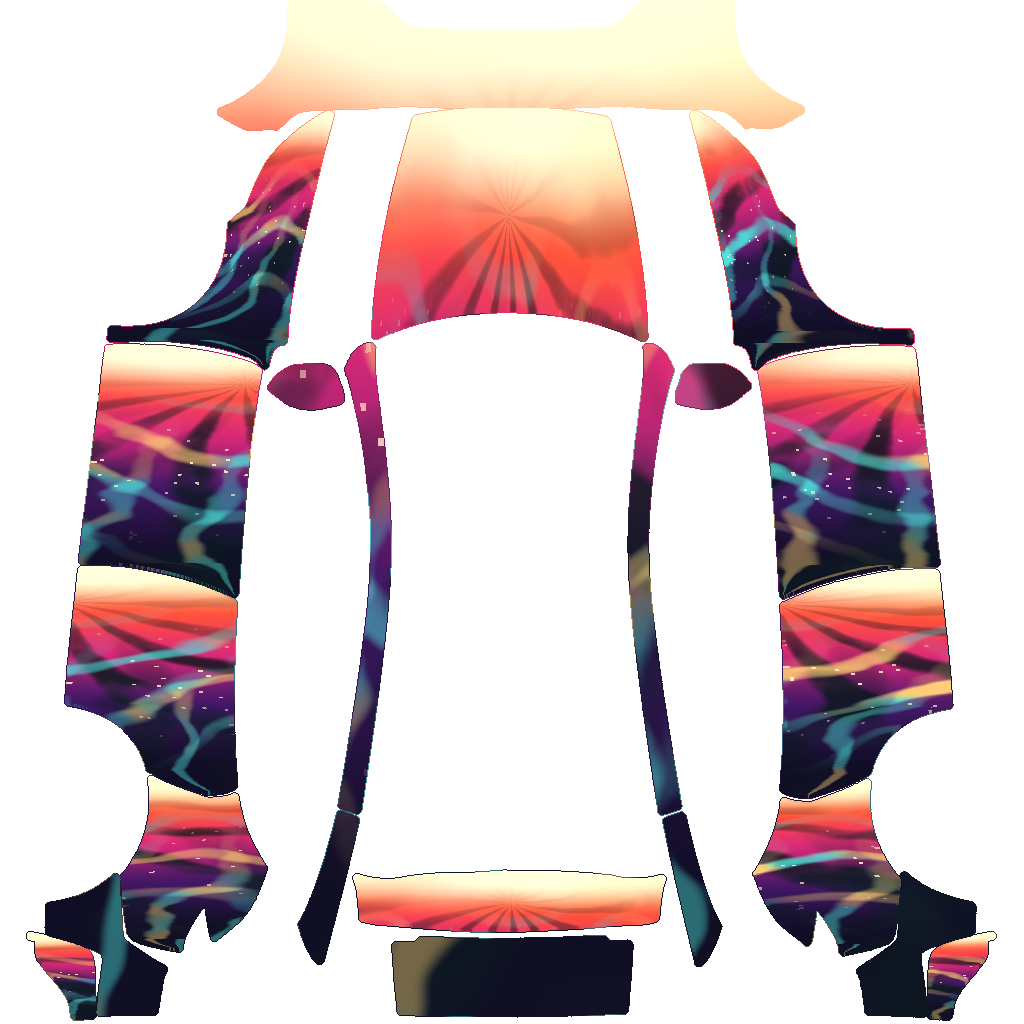
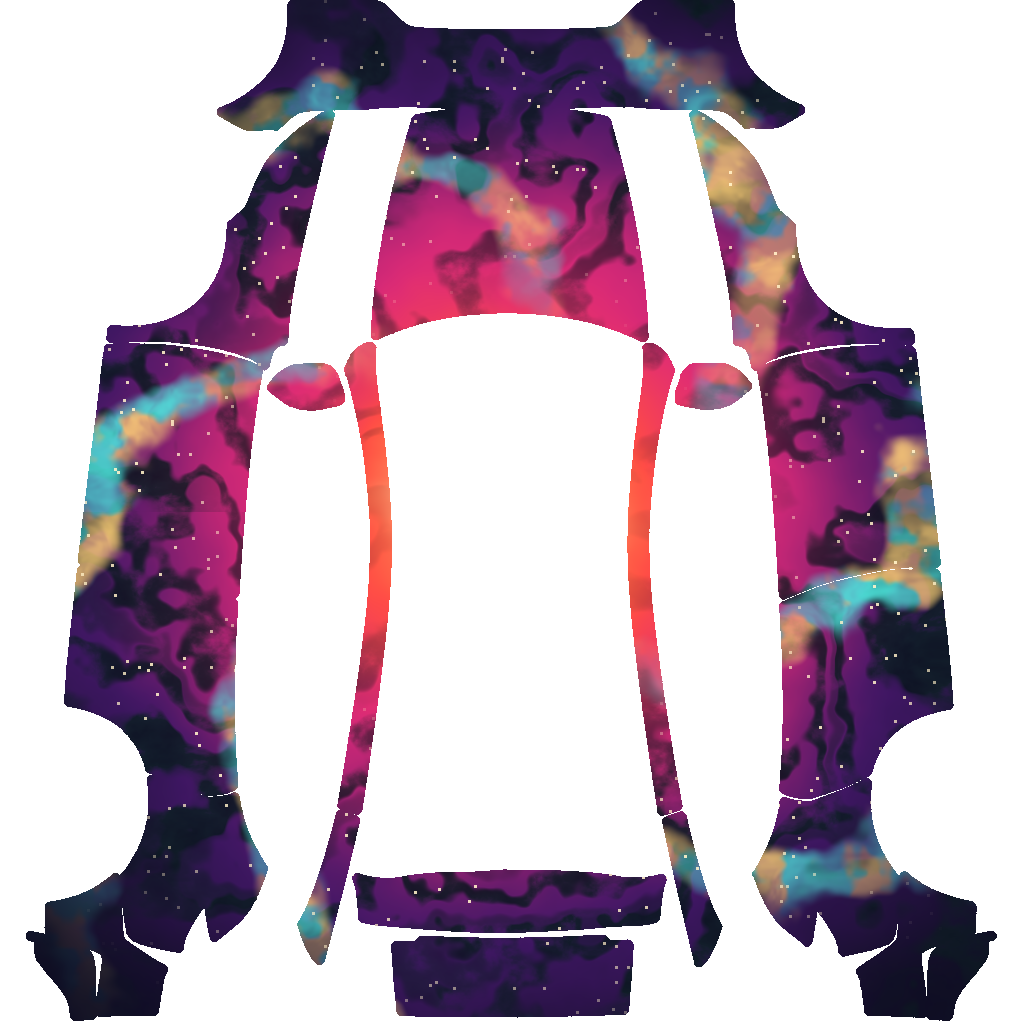
Restore original la-dusk look

diff --git a/skins/2026-09-04/README.md b/skins/2026-09-04/README.md
@@ -1,7 +1,7 @@
 # Skins — 2026-09-04
 
 **Slug:** `la-dusk`
-**Brief:** Los Angeles dusk: coral-magenta sunburst bleeding into indigo night toward the rockers, with continuous freeway ribbons and palm silhouettes that cross door seams (continuous side UV rebuild).
+**Brief:** Los Angeles dusk impression: coral-magenta sun disk on the roof bleeding into indigo night toward the rockers, with soft palm-frond silhouettes and thin freeway light ribbons drifting downhill — regenerated, no logos.
 
 CITY series — Los Angeles (next after NYC). One invented wrap applied to every official Tesla custom-wrap vehicle.
 
@@ -9,17 +9,16 @@ CITY series — Los Angeles (next after NYC). One invented wrap applied to every
 
 | Folder | Pixels | File size |
 |---|---|---|
-| `cybertruck` | 1024×768 | 318.6 KB |
-| `model3` | 1024×1024 | 436.9 KB |
-| `model3-2024-base` | 1024×1024 | 461.1 KB |
-| `model3-2024-performance` | 1024×1024 | 463.2 KB |
-| `modely` | 1024×1024 | 437.1 KB |
-| `modely-2025-base` | 1024×1024 | 329.8 KB |
-| `modely-2025-premium` | 1024×1024 | 363.6 KB |
-| `modely-2025-performance` | 1024×1024 | 368.4 KB |
-| `modely-l` | 1024×1024 | 406.5 KB |
-| `models-2021` | 1024×1024 | 375.4 KB |
-| `models-2025-plaid` | 1024×1024 | 371.0 KB |
-| `modelx-2021` | 1024×1024 | 301.4 KB |
-
+| `cybertruck` | 1024×768 | 499.0 KB |
+| `model3-2024-base` | 1024×1024 | 518.5 KB |
+| `model3-2024-performance` | 1024×1024 | 515.9 KB |
+| `model3` | 1024×1024 | 472.5 KB |
+| `models-2021` | 1024×1024 | 436.1 KB |
+| `models-2025-plaid` | 1024×1024 | 420.8 KB |
+| `modelx-2021` | 1024×1024 | 336.7 KB |
+| `modely-2025-base` | 1024×1024 | 378.8 KB |
+| `modely-2025-performance` | 1024×1024 | 439.5 KB |
+| `modely-2025-premium` | 1024×1024 | 426.4 KB |
+| `modely-l` | 1024×1024 | 482.5 KB |
+| `modely` | 1024×1024 | 526.4 KB |
 

diff --git a/skins/2026-09-04/cybertruck/README.md b/skins/2026-09-04/cybertruck/README.md
@@ -1,10 +1,10 @@
 # Cybertruck — la-dusk
 
 - **Slug:** `la-dusk`
-- **Brief:** Los Angeles dusk: coral-magenta sunburst bleeding into indigo night toward the rockers, with continuous freeway ribbons and palm silhouettes that cross door seams (continuous side UV rebuild).
+- **Brief:** Los Angeles dusk impression: coral-magenta sun disk on the roof bleeding into indigo night toward the rockers, with soft palm-frond silhouettes and thin freeway light ribbons drifting downhill — regenerated, no logos.
 - **Official folder:** `cybertruck`
 - **Pixel size:** 1024×768
-- **File size:** 318.6 KB
+- **File size:** 499.0 KB
 - **File:** `la-dusk.png`
 
 **Size note:** official template is 1024×768 (non-square). Both edges are within 512–1024; export matches the official pixels.

diff --git a/skins/2026-09-04/model3-2024-base/README.md b/skins/2026-09-04/model3-2024-base/README.md
@@ -1,10 +1,10 @@
 # Model 3 (2024+) Standard & Premium — la-dusk
 
 - **Slug:** `la-dusk`
-- **Brief:** Los Angeles dusk: coral-magenta sunburst bleeding into indigo night toward the rockers, with continuous freeway ribbons and palm silhouettes that cross door seams (continuous side UV rebuild).
+- **Brief:** Los Angeles dusk impression: coral-magenta sun disk on the roof bleeding into indigo night toward the rockers, with soft palm-frond silhouettes and thin freeway light ribbons drifting downhill — regenerated, no logos.
 - **Official folder:** `model3-2024-base`
 - **Pixel size:** 1024×1024
-- **File size:** 461.1 KB
+- **File size:** 518.5 KB
 - **File:** `la-dusk.png`
 
 ## Tesla upload steps

diff --git a/skins/2026-09-04/model3-2024-performance/README.md b/skins/2026-09-04/model3-2024-performance/README.md
@@ -1,10 +1,10 @@
 # Model 3 (2024+) Performance — la-dusk
 
 - **Slug:** `la-dusk`
-- **Brief:** Los Angeles dusk: coral-magenta sunburst bleeding into indigo night toward the rockers, with continuous freeway ribbons and palm silhouettes that cross door seams (continuous side UV rebuild).
+- **Brief:** Los Angeles dusk impression: coral-magenta sun disk on the roof bleeding into indigo night toward the rockers, with soft palm-frond silhouettes and thin freeway light ribbons drifting downhill — regenerated, no logos.
 - **Official folder:** `model3-2024-performance`
 - **Pixel size:** 1024×1024
-- **File size:** 463.2 KB
+- **File size:** 515.9 KB
 - **File:** `la-dusk.png`
 
 ## Tesla upload steps

diff --git a/skins/2026-09-04/modely-2025-performance/README.md b/skins/2026-09-04/modely-2025-performance/README.md
@@ -1,10 +1,10 @@
 # Model Y (2025+) Performance — la-dusk
 
 - **Slug:** `la-dusk`
-- **Brief:** Los Angeles dusk: coral-magenta sunburst bleeding into indigo night toward the rockers, with continuous freeway ribbons and palm silhouettes that cross door seams (continuous side UV rebuild).
+- **Brief:** Los Angeles dusk impression: coral-magenta sun disk on the roof bleeding into indigo night toward the rockers, with soft palm-frond silhouettes and thin freeway light ribbons drifting downhill — regenerated, no logos.
 - **Official folder:** `modely-2025-performance`
 - **Pixel size:** 1024×1024
-- **File size:** 368.4 KB
+- **File size:** 439.5 KB
 - **File:** `la-dusk.png`
 
 ## Tesla upload steps

diff --git a/skins/2026-09-04/modely-2025-premium/README.md b/skins/2026-09-04/modely-2025-premium/README.md
@@ -1,10 +1,10 @@
 # Model Y (2025+) Premium — la-dusk
 
 - **Slug:** `la-dusk`
-- **Brief:** Los Angeles dusk: coral-magenta sunburst bleeding into indigo night toward the rockers, with continuous freeway ribbons and palm silhouettes that cross door seams (continuous side UV rebuild).
+- **Brief:** Los Angeles dusk impression: coral-magenta sun disk on the roof bleeding into indigo night toward the rockers, with soft palm-frond silhouettes and thin freeway light ribbons drifting downhill — regenerated, no logos.
 - **Official folder:** `modely-2025-premium`
 - **Pixel size:** 1024×1024
-- **File size:** 363.6 KB
+- **File size:** 426.4 KB
 - **File:** `la-dusk.png`
 
 ## Tesla upload steps

diff --git a/skins/2026-09-04/modely-2025-base/README.md b/skins/2026-09-04/modely-2025-base/README.md
@@ -1,10 +1,10 @@
 # Model Y (2025+) Standard — la-dusk
 
 - **Slug:** `la-dusk`
-- **Brief:** Los Angeles dusk: coral-magenta sunburst bleeding into indigo night toward the rockers, with continuous freeway ribbons and palm silhouettes that cross door seams (continuous side UV rebuild).
+- **Brief:** Los Angeles dusk impression: coral-magenta sun disk on the roof bleeding into indigo night toward the rockers, with soft palm-frond silhouettes and thin freeway light ribbons drifting downhill — regenerated, no logos.
 - **Official folder:** `modely-2025-base`
 - **Pixel size:** 1024×1024
-- **File size:** 329.8 KB
+- **File size:** 378.8 KB
 - **File:** `la-dusk.png`
 
 ## Tesla upload steps

diff --git a/skins/2026-09-04/models-2025-plaid/README.md b/skins/2026-09-04/models-2025-plaid/README.md
@@ -1,10 +1,10 @@
 # Model S (2025+) Plaid — la-dusk
 
 - **Slug:** `la-dusk`
-- **Brief:** Los Angeles dusk: coral-magenta sunburst bleeding into indigo night toward the rockers, with continuous freeway ribbons and palm silhouettes that cross door seams (continuous side UV rebuild).
+- **Brief:** Los Angeles dusk impression: coral-magenta sun disk on the roof bleeding into indigo night toward the rockers, with soft palm-frond silhouettes and thin freeway light ribbons drifting downhill — regenerated, no logos.
 - **Official folder:** `models-2025-plaid`
 - **Pixel size:** 1024×1024
-- **File size:** 371.0 KB
+- **File size:** 420.8 KB
 - **File:** `la-dusk.png`
 
 ## Tesla upload steps

diff --git a/skins/2026-09-04/models-2021/README.md b/skins/2026-09-04/models-2021/README.md
@@ -1,10 +1,10 @@
 # Model S (2021+) — la-dusk
 
 - **Slug:** `la-dusk`
-- **Brief:** Los Angeles dusk: coral-magenta sunburst bleeding into indigo night toward the rockers, with continuous freeway ribbons and palm silhouettes that cross door seams (continuous side UV rebuild).
+- **Brief:** Los Angeles dusk impression: coral-magenta sun disk on the roof bleeding into indigo night toward the rockers, with soft palm-frond silhouettes and thin freeway light ribbons drifting downhill — regenerated, no logos.
 - **Official folder:** `models-2021`
 - **Pixel size:** 1024×1024
-- **File size:** 375.4 KB
+- **File size:** 436.1 KB
 - **File:** `la-dusk.png`
 
 ## Tesla upload steps

diff --git a/skins/2026-09-04/modelx-2021/README.md b/skins/2026-09-04/modelx-2021/README.md
@@ -1,10 +1,10 @@
 # Model X (2021+) — la-dusk
 
 - **Slug:** `la-dusk`
-- **Brief:** Los Angeles dusk: coral-magenta sunburst bleeding into indigo night toward the rockers, with continuous freeway ribbons and palm silhouettes that cross door seams (continuous side UV rebuild).
+- **Brief:** Los Angeles dusk impression: coral-magenta sun disk on the roof bleeding into indigo night toward the rockers, with soft palm-frond silhouettes and thin freeway light ribbons drifting downhill — regenerated, no logos.
 - **Official folder:** `modelx-2021`
 - **Pixel size:** 1024×1024
-- **File size:** 301.4 KB
+- **File size:** 336.7 KB
 - **File:** `la-dusk.png`
 
 ## Tesla upload steps

diff --git a/skins/2026-09-04/modely-l/README.md b/skins/2026-09-04/modely-l/README.md
@@ -1,10 +1,10 @@
 # Model Y L — la-dusk
 
 - **Slug:** `la-dusk`
-- **Brief:** Los Angeles dusk: coral-magenta sunburst bleeding into indigo night toward the rockers, with continuous freeway ribbons and palm silhouettes that cross door seams (continuous side UV rebuild).
+- **Brief:** Los Angeles dusk impression: coral-magenta sun disk on the roof bleeding into indigo night toward the rockers, with soft palm-frond silhouettes and thin freeway light ribbons drifting downhill — regenerated, no logos.
 - **Official folder:** `modely-l`
 - **Pixel size:** 1024×1024
-- **File size:** 406.5 KB
+- **File size:** 482.5 KB
 - **File:** `la-dusk.png`
 
 ## Tesla upload steps

diff --git a/skins/2026-09-04/model3/README.md b/skins/2026-09-04/model3/README.md
@@ -1,10 +1,10 @@
 # Model 3 — la-dusk
 
 - **Slug:** `la-dusk`
-- **Brief:** Los Angeles dusk: coral-magenta sunburst bleeding into indigo night toward the rockers, with continuous freeway ribbons and palm silhouettes that cross door seams (continuous side UV rebuild).
+- **Brief:** Los Angeles dusk impression: coral-magenta sun disk on the roof bleeding into indigo night toward the rockers, with soft palm-frond silhouettes and thin freeway light ribbons drifting downhill — regenerated, no logos.
 - **Official folder:** `model3`
 - **Pixel size:** 1024×1024
-- **File size:** 436.9 KB
+- **File size:** 472.5 KB
 - **File:** `la-dusk.png`
 
 ## Tesla upload steps
